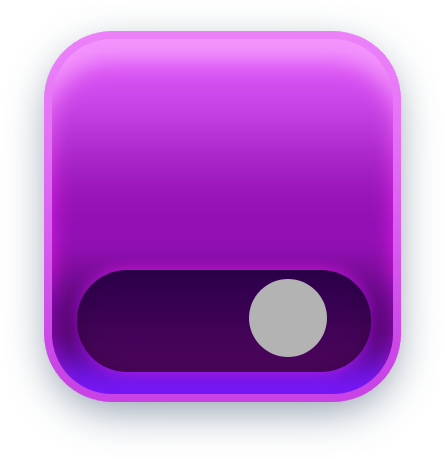
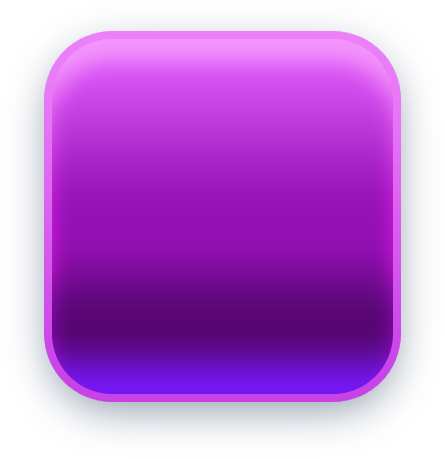
update assets

Changed region(s): [[0.1461, 0.5795, 0.8472, 0.8235]]

diff --git a/src/assets.ts b/src/assets.ts
@@ -5,6 +5,8 @@ export const assets: ResourcesPixiConfig = {
         marvin: 'fonts/marvin.woff2',
     },
     textures: {
+        'switch-on': 'images/switch-on.png',
+        'switch-off': 'images/switch-off.png',
         'tile-blue': 'images/tile-blue.png',
         'tile-red': 'images/tile-red.png',
         'tile-pink': 'images/tile-pink.png',
